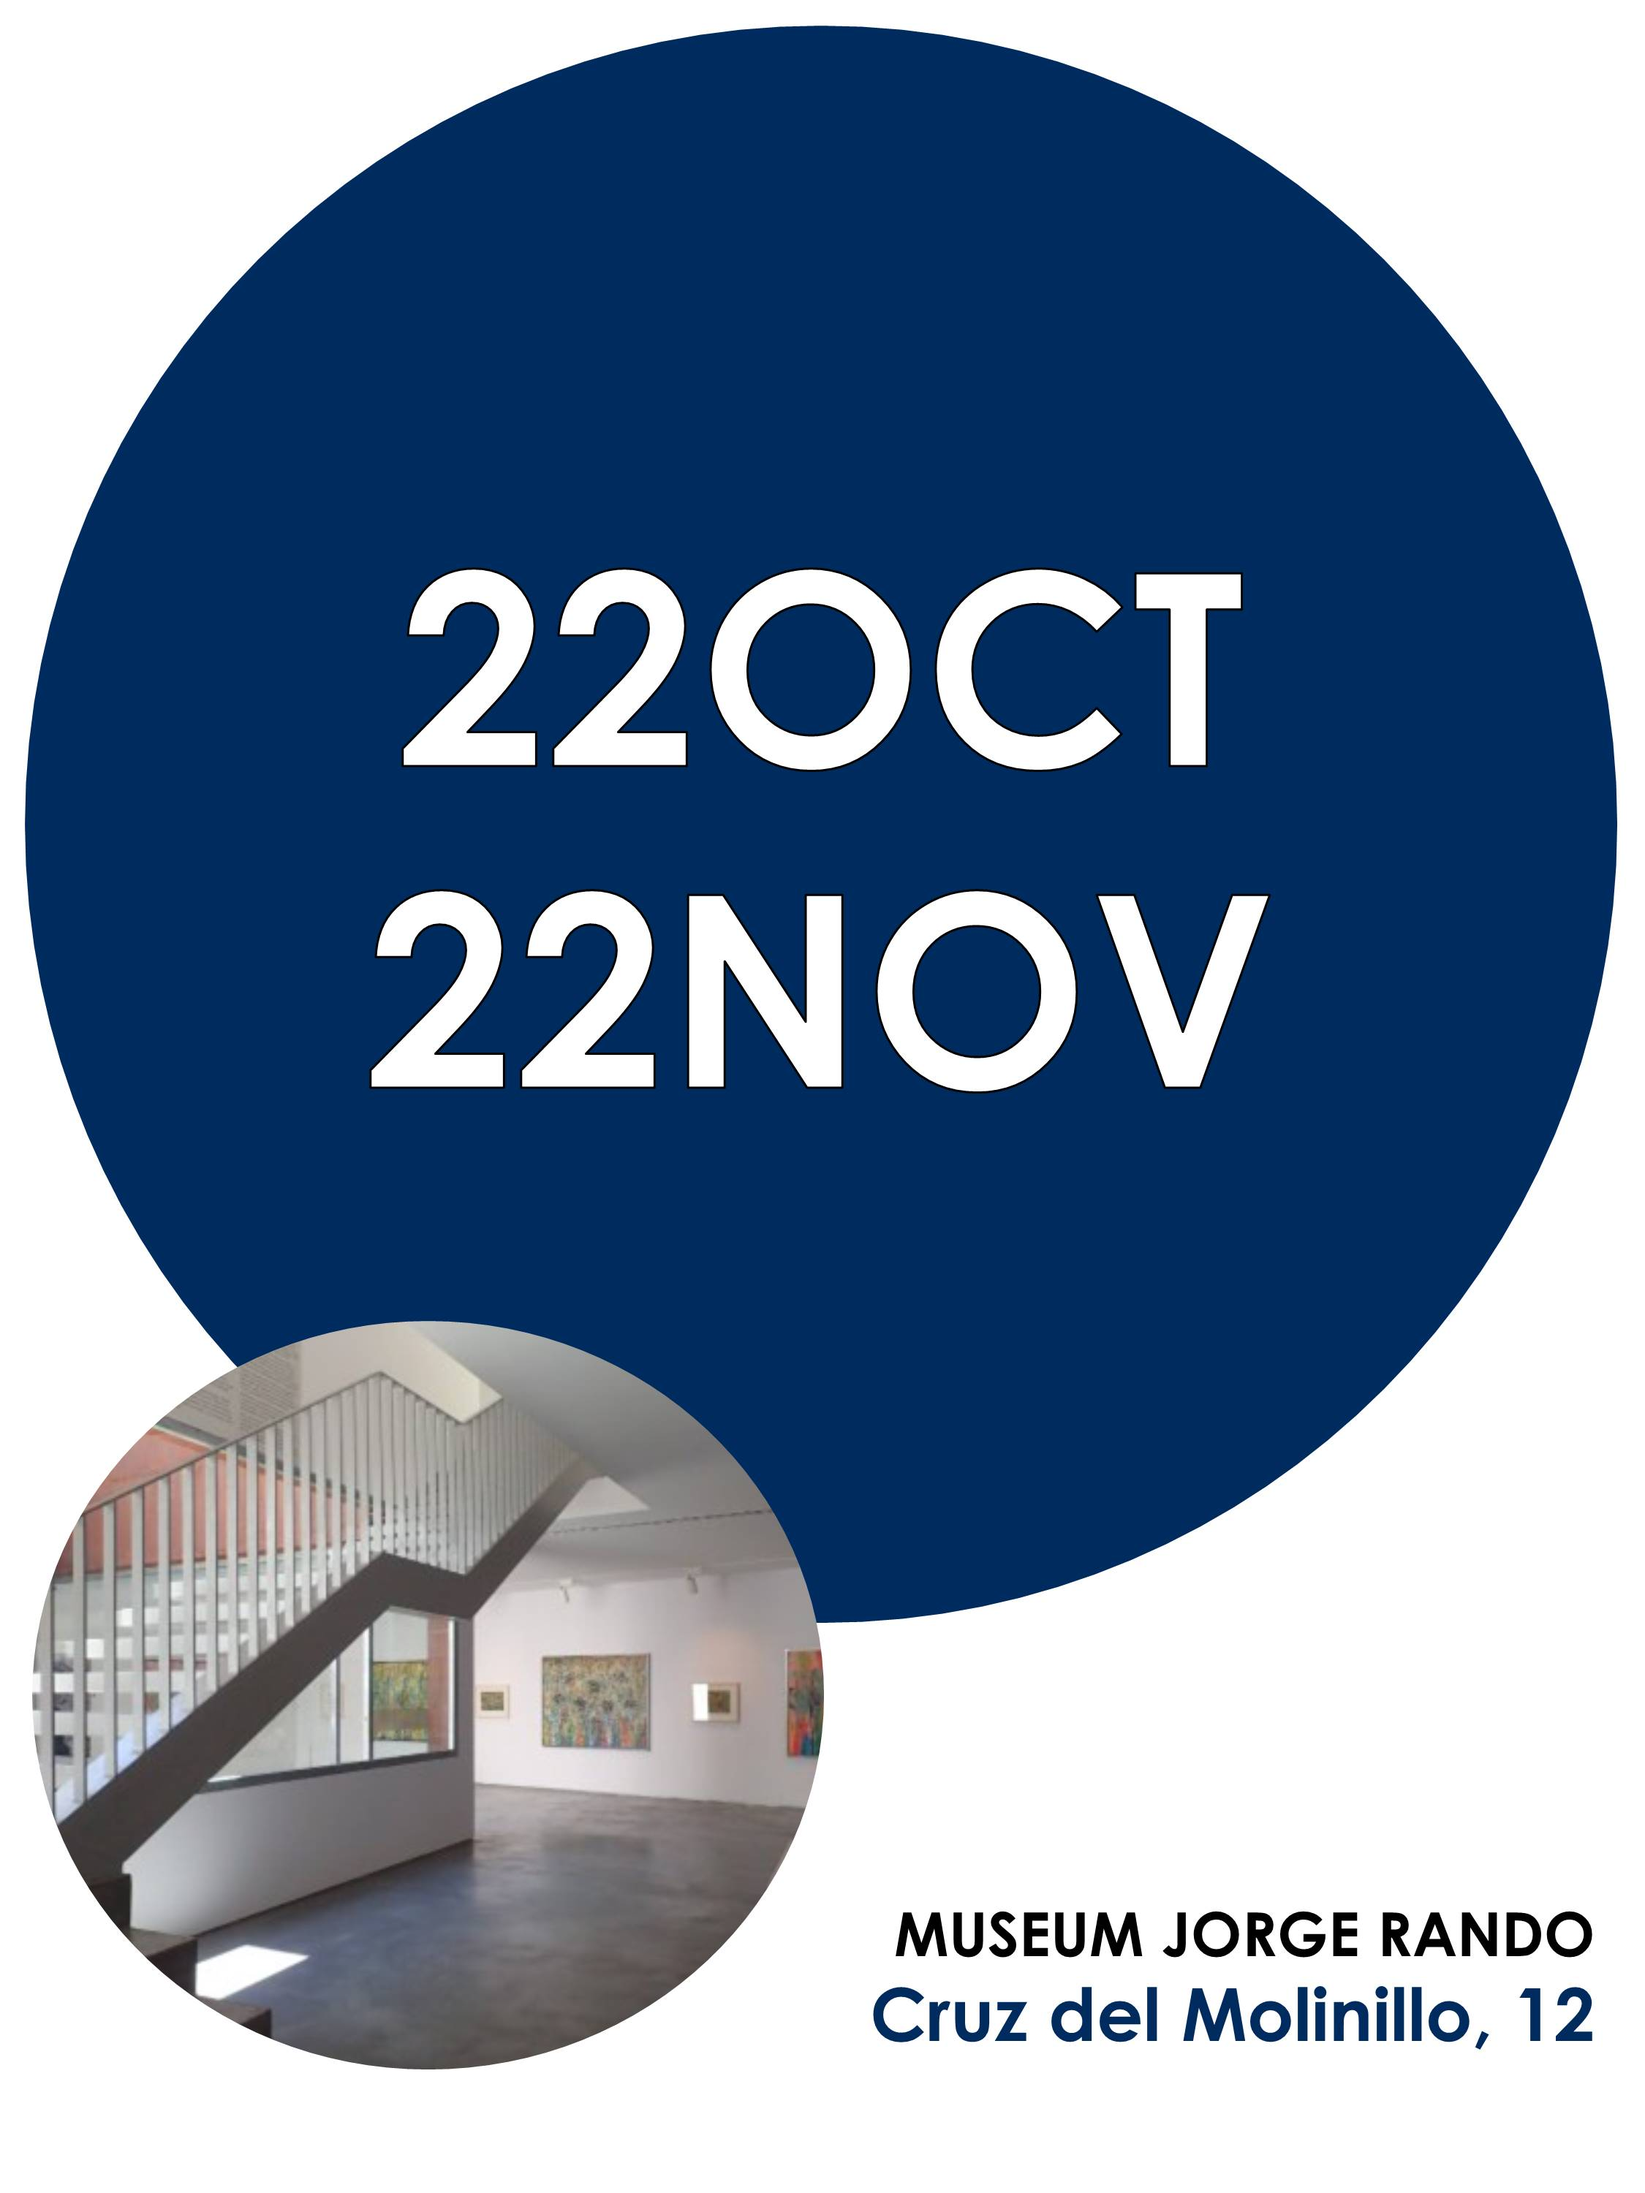
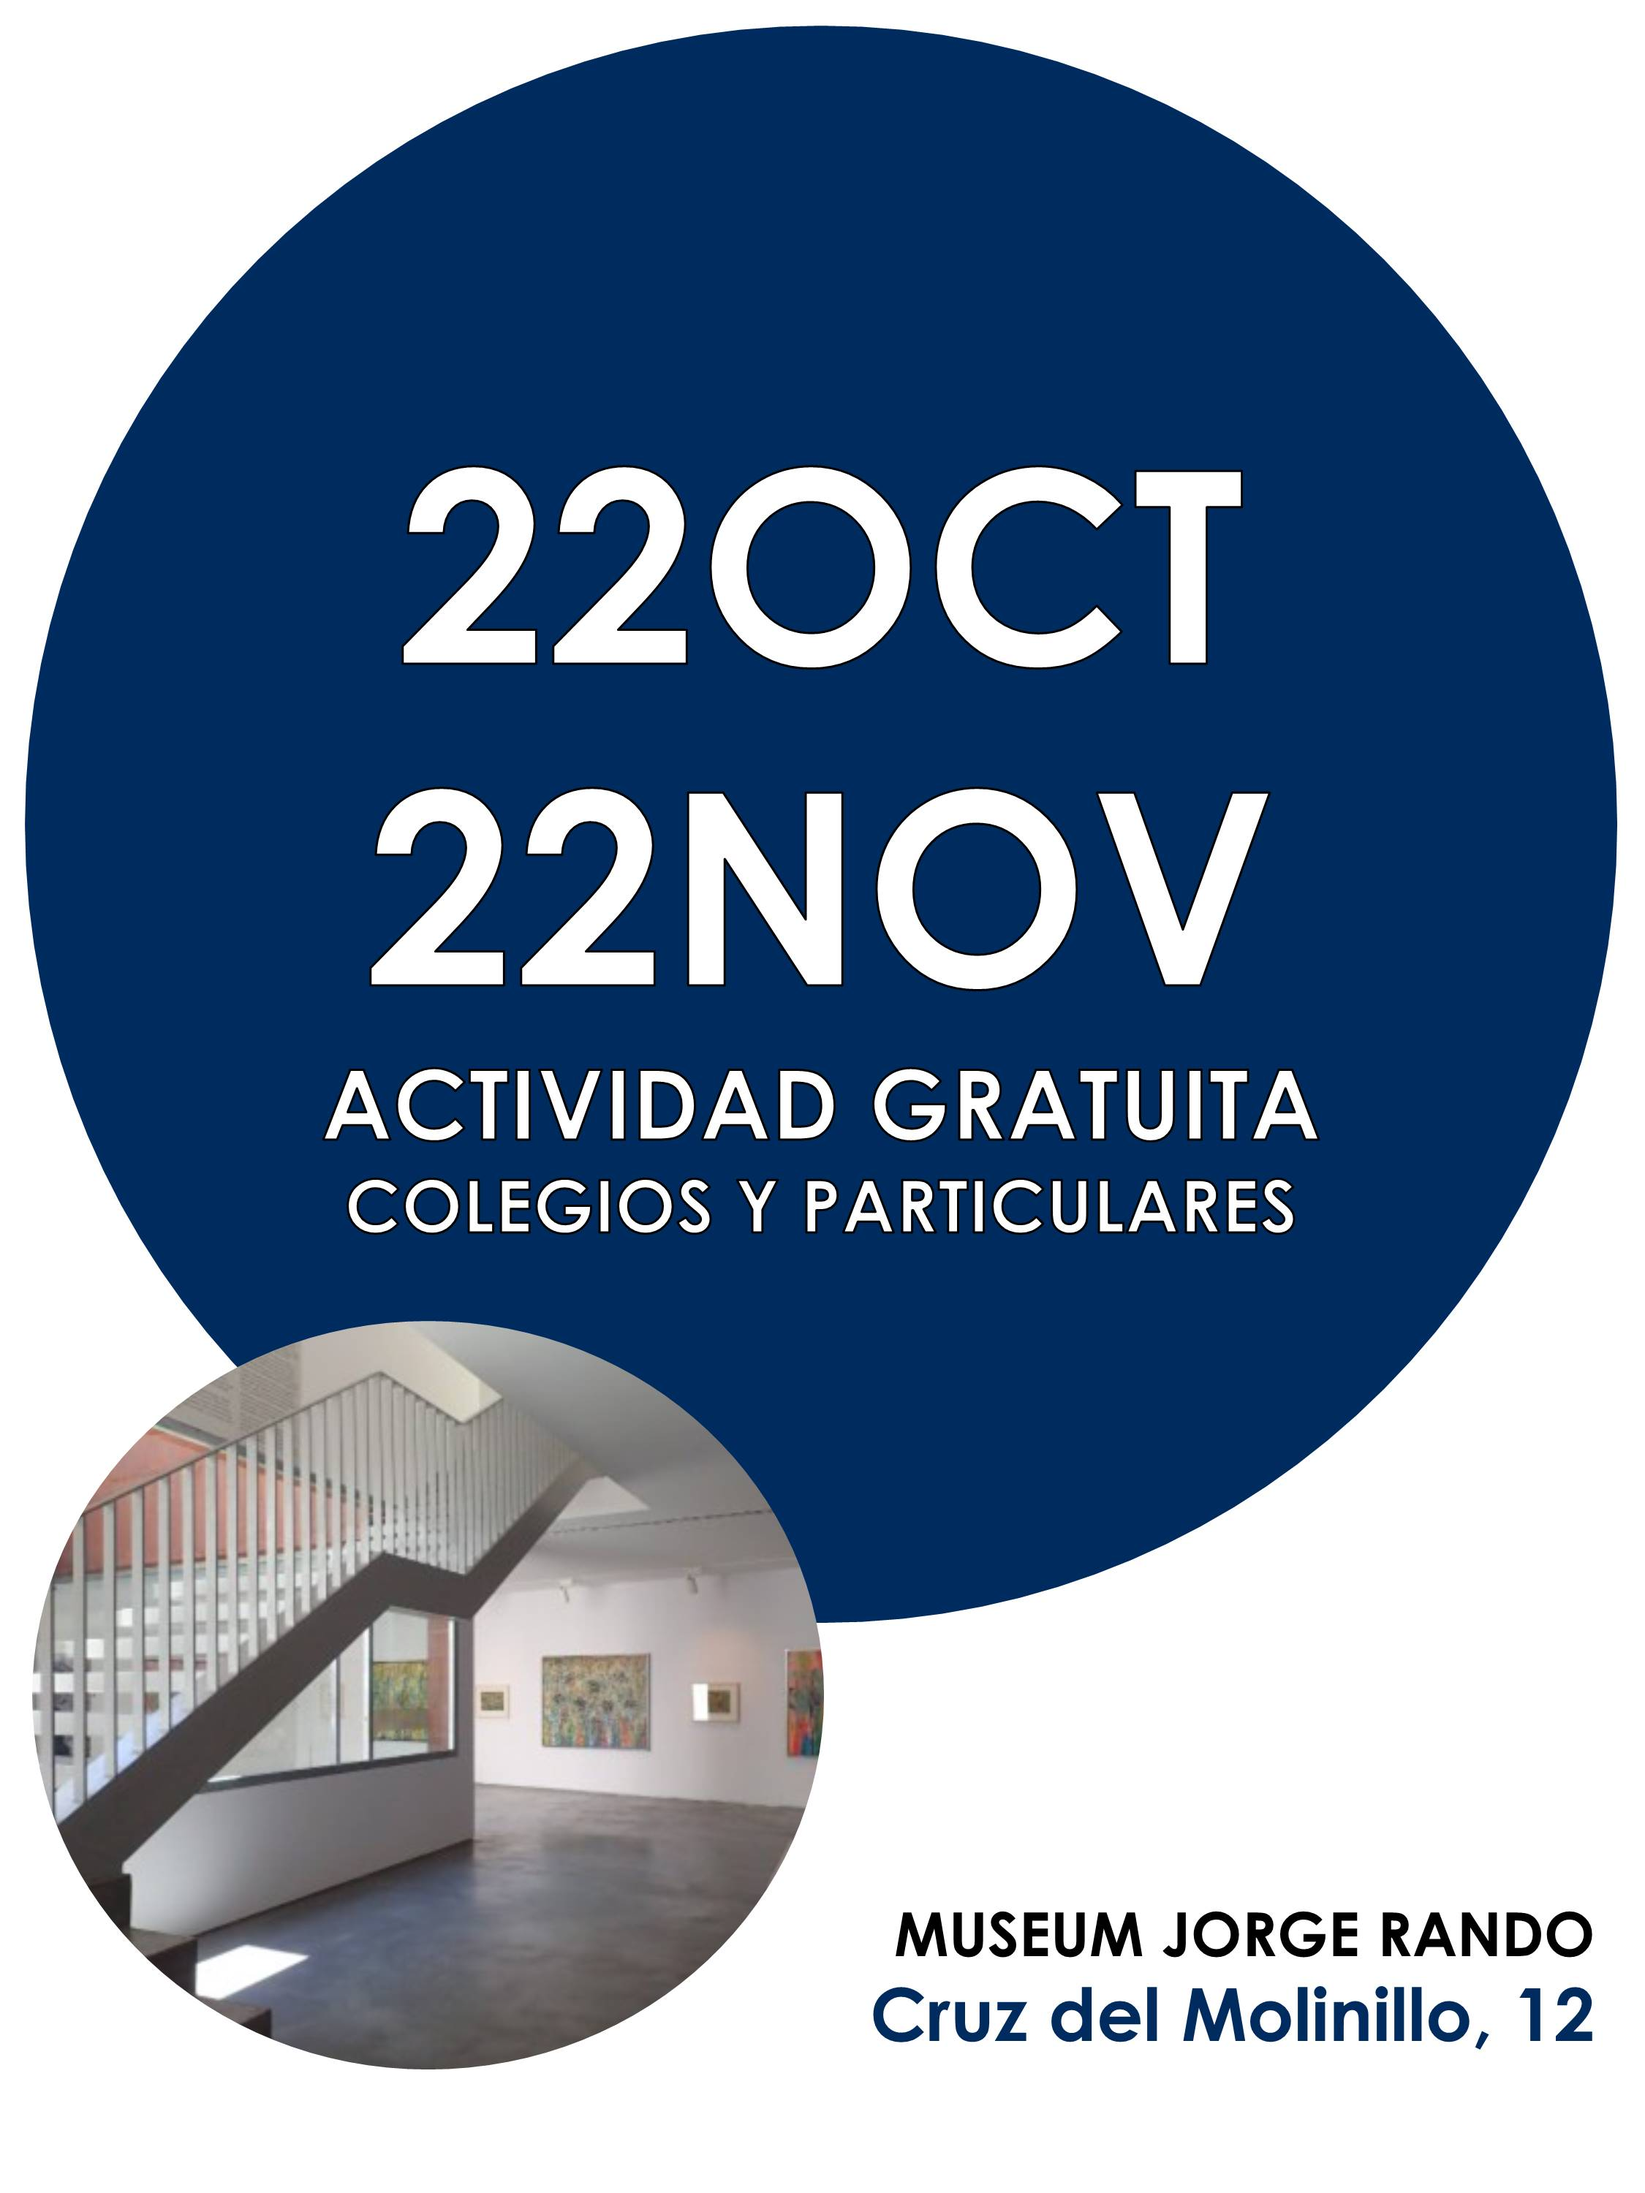
texto talleres

Changed region(s): [[0.1867, 0.186, 0.8089, 0.589]]

diff --git a/Programa/talleres.html b/Programa/talleres.html
@@ -105,21 +105,21 @@
                     <p></p>
                 </div>
                 <div class="ficha-tercio-central">
-                    <h3 style="font-weight: bold; color: #47D496; text-align: right">CONTENIDO</h3>
+                    <h3 style="font-weight: bold; color: #47D496; text-align: right; font-size: 1.3em">CONTENIDO</h3>
                     <ul>⬤ Nacimiento y desarrollo de la Bauhaus</ul>
                     <ul>▲ Vínculos con el Expresionismo</ul>
                     <ul>◼ Experimentación artística</ul>
-                    <h3 style="font-weight: bold; color: #47D496; text-align: right">ORGANIZACIÓN</h3>
+                    <h3 style="font-weight: bold; color: #47D496; text-align: right; font-size: 1.3em ">ORGANIZACIÓN</h3>
                     <li>Cada martes del 22 de octubre al 22 de noviembre</li>
-                    <ul>17:30 - 18:30 | alumnos de educación primaria</ul>
-                    <ul>18:30 - 19:30 | alumnos de educación secundaria</ul>
+                    <ul>17:30 - 18:30 | estudiantes de 6 a 12 años</ul>
+                    <ul>18:30 - 19:30 | estudiantes de 12 a 16 años</ul>
                     <li>Grupos de 20 alumnos</li>
                     <h3 style="font-weight: bold; color: #002b5e; text-align: right;">¿te apuntas?</h3>
                     <p>Envía un correo a <a class="hipervinculo" style="font-size: 1.1em; font-weight: bold; color: #ff6d6a" href="../Conoce la Bauhaus/pedagogia/pedagogia">educacion@museojorgerando.org</a> con los siguientes datos:</p>
                     <li>Sesión en la que te gustaría participar</li>
                     <li>Nombre, apellidos y edad del alumno/a</li>
                     <li>Teléfono de contacto</li>
-                    <li>Nombre del adulto responsable</li>
+                    <li>Nombre del adulto o institución responsable</li>
                 </div>
                 <div class="ficha-tercio-derecho">
                     <div>
